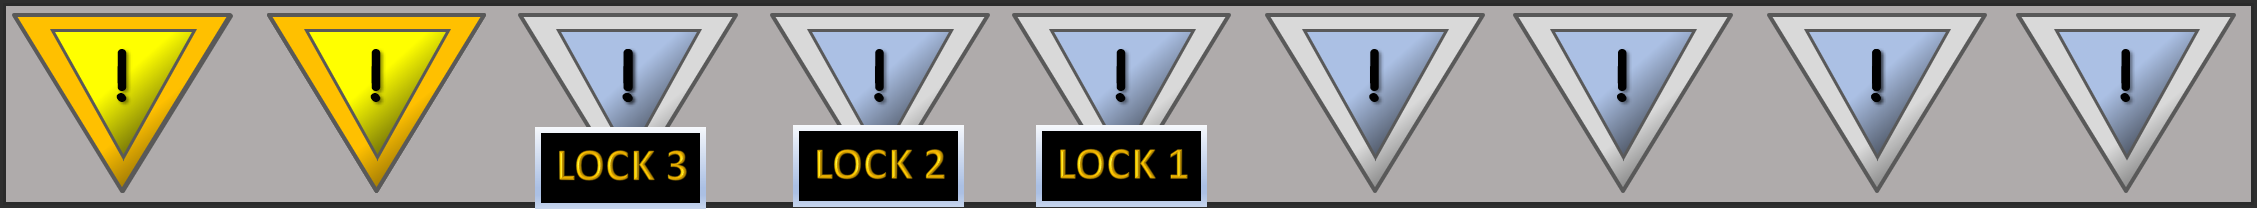
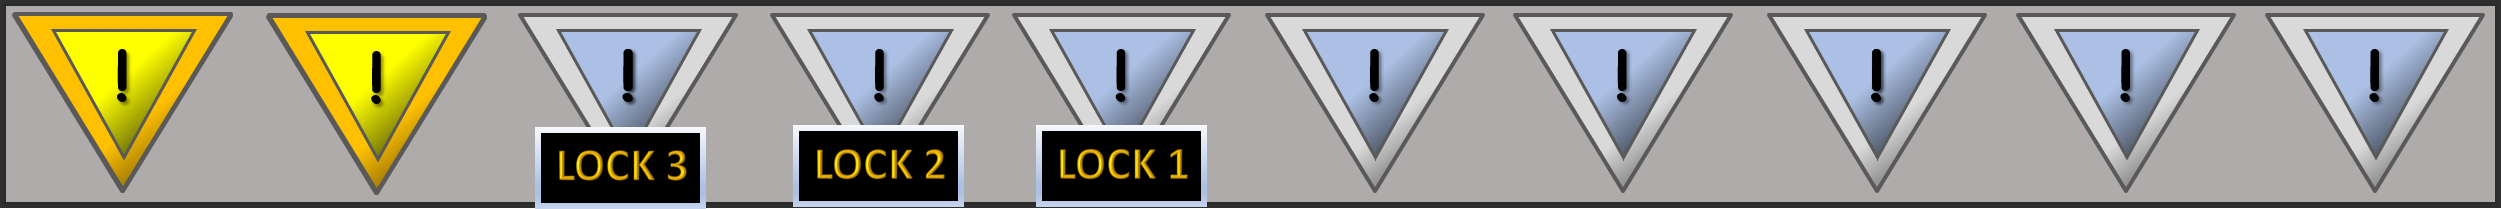
Player does not return to backup more than once after it is destroyed

diff --git a/assets/testTileset.tsx b/assets/testTileset.tsx
@@ -1,4 +1,4 @@
 <?xml version="1.0" encoding="UTF-8"?>
 <tileset version="1.2" tiledversion="1.2.1" name="testTileset" tilewidth="32" tileheight="32" tilecount="100" columns="10">
- <image source="testTilesetv24.png" width="320" height="327"/>
+ <image source="testTilesetv26.png" width="320" height="327"/>
 </tileset>

diff --git a/src/main/java/inf112/skeleton/app/Game/GameMap.java b/src/main/java/inf112/skeleton/app/Game/GameMap.java
@@ -1,9 +1,6 @@
 package inf112.skeleton.app.Game;
 
-import com.badlogic.gdx.Input;
 import com.badlogic.gdx.maps.tiled.*;
-import com.badlogic.gdx.scenes.scene2d.ui.Dialog;
-import com.badlogic.gdx.scenes.scene2d.ui.Skin;
 import inf112.skeleton.app.Cards.ProgramCard;
 import inf112.skeleton.app.Cards.ProgramCardDeck;
 import inf112.skeleton.app.Cards.ProgramType;
@@ -13,7 +10,6 @@ import inf112.skeleton.app.GameObjects.PlayerLayerObject;
 import inf112.skeleton.app.Player.Player;
 import inf112.skeleton.app.Round.Phase;
 import inf112.skeleton.app.Round.Round;
-import inf112.skeleton.app.Screen.VictoryScreen;
 
 
 import java.util.ArrayList;
@@ -98,10 +94,7 @@ public class GameMap {
 
     public void drawPlayers() {
         for (Player player : players) {
-            if (player.isAlive())
-                drawPlayer(player);
-            else
-                grid.removePlayerPosition(player.getPosition());
+            drawPlayer(player);
         }
     }
 
@@ -109,7 +102,11 @@ public class GameMap {
         Position pos = player.getPosition();
 
         TiledMapTileLayer.Cell avatar = new TiledMapTileLayer.Cell();
-        avatar.setTile(player.getAvatar());
+        // If player is destroyed then draw a grey avatar
+        if (player.isDestroyed())
+            avatar.setTile(player.getDestroyedAvatar());
+        else
+            avatar.setTile(player.getAvatar());
 
         playerLayer.setCell(pos.getX(), pos.getY(), avatar);
     }
@@ -244,11 +241,13 @@ public class GameMap {
             player.setPosition(backup);
             grid.setPlayerPosition(player.getPlayerTile());
         }
+        player.returnToBackup();
         drawPlayers();
     }
 
     /**
      * Checks if there is a player already at the given player's backup
+     *
      * @param player
      * @return true if there is another player on the backup
      */
@@ -263,6 +262,7 @@ public class GameMap {
     /**
      * If someone is standing on the backup of a player when he is due to return,
      * then return player to a position adjacent to the backup
+     *
      * @param player
      */
     public void movePlayerToNearestField(Player player) {
@@ -293,6 +293,8 @@ public class GameMap {
      * @return
      */
     public boolean hasToReturnToBackup(Player player) {
+        if (player.hasReturnedToBackup())
+            return false;
         if (steppedOnHole(player) || player.lostAllHealth())
             return true;
         return false;
@@ -325,6 +327,7 @@ public class GameMap {
     /**
      * Checks if player has stepped on a wrench.
      * If player stepped on wrench, then add one health to the player
+     *
      * @param player
      * @return true if player is standing on a wrench tile
      */
@@ -407,24 +410,21 @@ public class GameMap {
             grid.setPlayerPosition(player.getPlayerTile());
             if (steppedOnConveyorBelt(player) && !hasMovedOnce)
                 moveAccordingToConveyorBelt(player, true);
-        }
-        else if (grid.isDoubleSouthBelt(currentPosition) && canGo(Direction.SOUTH, currentPosition)) {
+        } else if (grid.isDoubleSouthBelt(currentPosition) && canGo(Direction.SOUTH, currentPosition)) {
             Position newPosition = currentPosition.south();
             grid.removePlayerPosition(currentPosition);
             player.setPosition(newPosition);
             grid.setPlayerPosition(player.getPlayerTile());
             if (steppedOnConveyorBelt(player) && !hasMovedOnce)
                 moveAccordingToConveyorBelt(player, true);
-        }
-        else if (grid.isWestBelt(currentPosition) && canGo(Direction.WEST, currentPosition)) {
+        } else if (grid.isWestBelt(currentPosition) && canGo(Direction.WEST, currentPosition)) {
             Position newPosition = currentPosition.west();
             grid.removePlayerPosition(currentPosition);
             player.setPosition(newPosition);
             grid.setPlayerPosition(player.getPlayerTile());
             if (steppedOnConveyorBelt(player) && !hasMovedOnce)
                 moveAccordingToConveyorBelt(player, true);
-        }
-        else if (grid.isDoubleEastBelt(currentPosition) && canGo(Direction.EAST, currentPosition)) {
+        } else if (grid.isDoubleEastBelt(currentPosition) && canGo(Direction.EAST, currentPosition)) {
             Position newPosition = currentPosition.east();
             grid.removePlayerPosition(currentPosition);
             player.setPosition(newPosition);
@@ -512,7 +512,6 @@ public class GameMap {
         steppedOnWrench();
         fireLasers();
         hasWon();
-        //removeDeadPlayers();
     }
 
     /**
@@ -521,6 +520,8 @@ public class GameMap {
     public void endOfRoundChecks() {
         fixPlayers();
         activatePlayers();
+        //removeDeadPlayers();
+        drawPlayers();
     }
 
     /**
@@ -634,7 +635,7 @@ public class GameMap {
                         laserLayer.setCell(startPos.getX() - i, startPos.getY(), crossLaser);
                         continue;
                     }
-                        laserLayer.setCell(startPos.getX() - i, startPos.getY(), laser);
+                    laserLayer.setCell(startPos.getX() - i, startPos.getY(), laser);
                 }
                 break;
         }
@@ -713,17 +714,28 @@ public class GameMap {
      * If a player is alive, he is removed from the game
      */
     public void removeDeadPlayers() {
-        ArrayList<Integer> deadPlayers = new ArrayList<>();
-        for (int i = 0; i < players.size(); i++) {
-            Player player = players.get(i);
-            if (!player.isAlive()) {
-                grid.removePlayerPosition(player.getPosition());
-                deadPlayers.add(player.getId());
+        outerloop:
+        while (true) {
+            int nPlayers = players.size();
+            for (int i = 0; i < nPlayers; i++) {
+                Player player = players.get(i);
+                if (!player.isAlive()) {
+                    players.remove(player);
+                    continue outerloop;
+                }
             }
+            break;
         }
-        for (int i : deadPlayers) {
-            players.remove(i);
-        }
+
+
+           /*if (!player.isAlive()) {
+               Position playerPosition = player.getPosition();
+               int x = playerPosition.getX();
+               int y = playerPosition.getY();
+
+               grid.removePlayerPosition(playerPosition);
+               playerLayer.setCell(x, y, null);
+           }*/
     }
 
     /**

diff --git a/src/main/java/inf112/skeleton/app/Screen/UserInterface.java b/src/main/java/inf112/skeleton/app/Screen/UserInterface.java
@@ -33,6 +33,7 @@ public class UserInterface {
     ProgramCard chosenCards[] = new ProgramCard[5];
     HashMap<Image, ProgramCard> cardMap = new HashMap<>();
     HashMap<ProgramCard, Image> imageMap = new HashMap<>();
+
     private boolean hasPoweredDown = false;
 
     private Stage stage;
@@ -136,7 +137,7 @@ public class UserInterface {
 
     public void initializeCardSelection() {
         // If player has selected powerdown, then do not distribute new cards. PowerDown
-        if (hasPoweredDown) {
+        if (hasPoweredDown || !player.isAlive()) {
             player.powerDown();
             player.setHandChosen(true);
             System.out.println("POWER DOWN FOR PLAYER " + player.getPlayerTile().getColor());
@@ -259,6 +260,25 @@ public class UserInterface {
                 return pos[i];
         }
         return null;
+    }
+
+    /**
+     * @return graphic for how many flags the player has visited
+     */
+    public Image getFlagVisitedImage() {
+        int lastFlagVisited = player.getLastFlagVisited();
+        Texture lifeTokenTexture = null;
+        switch (lastFlagVisited) {
+            case 3: lifeTokenTexture = new Texture("assets/userInterface/flagChecks/flagCheck3.png"); break;
+            case 2: lifeTokenTexture = new Texture("assets/userInterface/flagChecks/flagCheck2.png"); break;
+            case 1: lifeTokenTexture = new Texture("assets/userInterface/flagChecks/flagCheck1.png"); break;
+            case 0: lifeTokenTexture = new Texture("assets/userInterface/flagChecks/flagCheck0.png"); break;
+            default: lifeTokenTexture = new Texture("assets/userInterface/flagChecks/flagCheck0.png"); break;
+        }
+        Sprite lifeTokenSprite = new Sprite(lifeTokenTexture);
+        Image lifeTokenImage = new Image(new SpriteDrawable(lifeTokenSprite));
+        lifeTokenImage.setPosition(1,1);
+        return lifeTokenImage;
     }
 
     /**

diff --git a/src/main/java/inf112/skeleton/app/Player/Player.java b/src/main/java/inf112/skeleton/app/Player/Player.java
@@ -18,9 +18,10 @@ public class Player {
     private int id;
     private PlayerDeck playerDeck;
 
+    private boolean returnedToBackup;
+    private boolean active;
     private boolean isDestroyed;
     private boolean isAlive;
-    private boolean active;
 
     private boolean handChosen;
 
@@ -34,9 +35,9 @@ public class Player {
         this.backup = new Position(id, id);
 
         this.handChosen = false;
-        this.isAlive = true;
-        this.isDestroyed = false;
         this.active = true;
+        this.isDestroyed = false;
+        this.isAlive = true;
 
         this.lastFlagVisited = 0;
     }
@@ -61,6 +62,7 @@ public class Player {
         if(!isAlive)
             return;
 
+        returnedToBackup = false;
         isDestroyed = false;
         health = MAX_HEALTH - 2;
     }
@@ -116,12 +118,21 @@ public class Player {
     public void destroy() {
         lifeTokens--;
         if (lifeTokens < 1) {
+            isDestroyed = true;
             isAlive = false;
             health = 0;
             return;
         }
         health = 0;
         isDestroyed = true;
+    }
+
+    public boolean hasReturnedToBackup() {
+        return returnedToBackup;
+    }
+
+    public void returnToBackup() {
+        returnedToBackup = true;
     }
 
 
@@ -189,6 +200,8 @@ public class Player {
     public TiledMapTile getAvatar() {
         return playerTile.getAvatar();
     }
+
+    public TiledMapTile getDestroyedAvatar() { return playerTile.getDestroyedAvatar(); }
 
     public TiledMapTile getBackupAvatar() {
         return playerTile.getBackup().getAvatar();

diff --git a/src/main/java/inf112/skeleton/app/Screen/PlayScreen.java b/src/main/java/inf112/skeleton/app/Screen/PlayScreen.java
@@ -116,11 +116,11 @@ public class PlayScreen implements Screen {
         int lifeTokens = player1.getLifeTokens();
         Texture lifeTokenTexture = null;
         switch (lifeTokens) {
-            case 3: lifeTokenTexture = new Texture("assets/lifeTokens/lifeTokens3.png"); break;
-            case 2: lifeTokenTexture = new Texture("assets/lifeTokens/lifeTokens2.png"); break;
-            case 1: lifeTokenTexture = new Texture("assets/lifeTokens/lifeTokens1.png"); break;
-            case 0: lifeTokenTexture = new Texture("assets/lifeTokens/lifeTokens0.png"); break;
-            default: lifeTokenTexture = new Texture("assets/lifeTokens/lifeTokens0.png"); break;
+            case 3: lifeTokenTexture = new Texture("assets/userInterface/lifeTokens/lifeTokens3.png"); break;
+            case 2: lifeTokenTexture = new Texture("assets/userInterface/lifeTokens/lifeTokens2.png"); break;
+            case 1: lifeTokenTexture = new Texture("assets/userInterface/lifeTokens/lifeTokens1.png"); break;
+            case 0: lifeTokenTexture = new Texture("assets/userInterface/lifeTokens/lifeTokens0.png"); break;
+            default: lifeTokenTexture = new Texture("assets/userInterface/lifeTokens/lifeTokens0.png"); break;
         }
         Sprite lifeTokenSprite = new Sprite(lifeTokenTexture);
         Image lifeTokenImage = new Image(new SpriteDrawable(lifeTokenSprite));

diff --git a/src/main/java/inf112/skeleton/app/GameObjects/PlayerLayerObject.java b/src/main/java/inf112/skeleton/app/GameObjects/PlayerLayerObject.java
@@ -129,6 +129,31 @@ public class PlayerLayerObject implements GameObject {
     public int compareTo(Object o) {
         return 0;
     }
+
+    /**
+     * @return grey tile of player in the direction the player currently has
+     */
+    public TiledMapTile getDestroyedAvatar() {
+        int avatarId = 0;
+        switch (dir) {
+            case NORTH:
+                avatarId = 91;
+                break;
+
+            case SOUTH:
+                avatarId = 94;
+                break;
+
+            case EAST:
+                avatarId = 92;
+                break;
+
+            case WEST:
+                avatarId = 93;
+                break;
+        }
+        return tiles.getTile(avatarId);
+    }
 }
 
 
